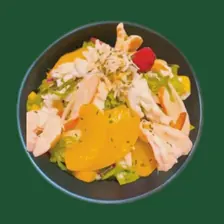
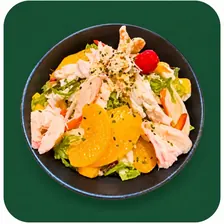
Update photo — Salade Fruits de Mer

diff --git a/src/data/dishImages.ts b/src/data/dishImages.ts
@@ -46,7 +46,7 @@ export const CLIENT_DISH_IMAGES: Record<string, string> = {
   "4240ad621c": "/menu-hd-onglet6/salade-royale.png",
   "b446a7355a": "/menu-hd-onglet6/salade-exotic-chicken.png",
   "c2651f806f": "/menu-hd-onglet6/salade-tropicale.png",
-  "2c80cdd361": "/menu-hd-onglet6/salade-fruits-de-mer.png",
+  "2c80cdd361": "/menu-hd-onglet6/salade-fruits-de-mer.jpg",
   "fb89c84798": "/menu-hd-onglet6/salade-vietnamienne.png",
   "b56ed1406f": "/menu-hd-onglet6/salade-crevettes-tempura.png",
   "3a75439af2": "/menu-hd-onglet6/exotic-del-mar.png",

diff --git a/src/data/yumloMenu.ts b/src/data/yumloMenu.ts
@@ -420,7 +420,7 @@ export const YUMLO_MENU = [
     "description": "Calamar, crevettes, crabe, surimi, mangue, choux, carottes, laitue",
     "priceMAD": "54.00",
     "currency": "MAD",
-    "image": "/menu-hd-onglet6/salade-fruits-de-mer.png"
+    "image": "/menu-hd-onglet6/salade-fruits-de-mer.jpg"
   },
   {
     "id": "c2651f806f",
